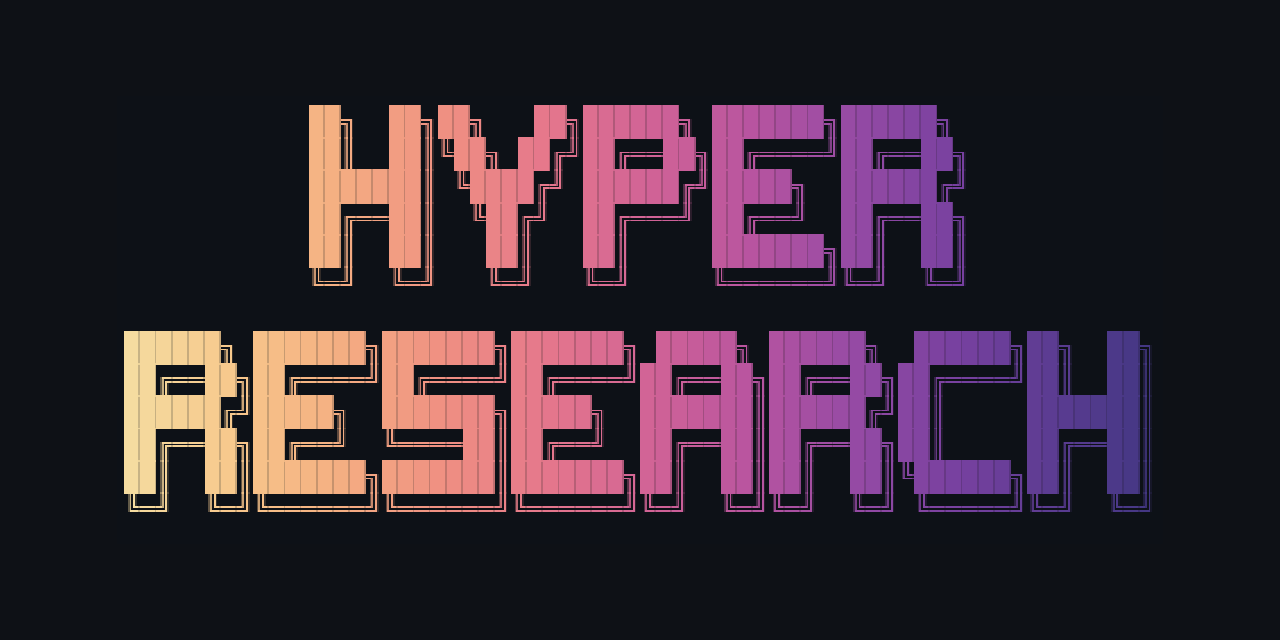
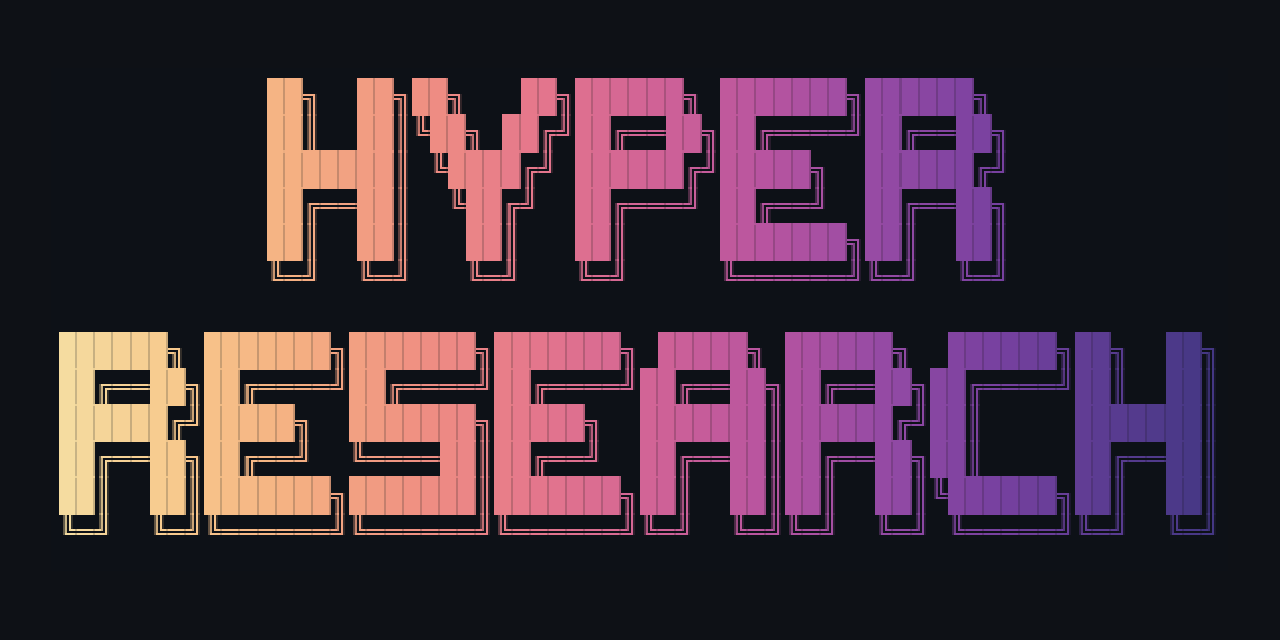
prelaunch polish: bigger social wordmark + Python 3.14 disclaimer (#13)
* fix: make wordmark dominate banner_social.png instead of floating in dark padding

The 1280x640 social card had the wordmark capped at 70% height and 85%
width, leaving roughly a third of the canvas as empty dark margin. When
platforms cropped to tighter aspect ratios for link previews, the
wordmark looked tiny. Push the fill to 92% width so the wordmark reads
clearly when shared.

* docs: add Python 3.11-3.13 disclaimer after install step

3.14 unsupported until upstream Crawl4AI relaxes its lxml~=5.3 pin
(unclecode/crawl4ai#1903). Without a callout, users on 3.14 hit a
cryptic lxml-from-source compile failure instead of a clear "use
3.13" message.

---------

Changed region(s): [[0.0312, 0.5, 0.9688, 0.8438], [0.1875, 0.125, 0.7812, 0.4688]]

diff --git a/assets/_generate_banner.py b/assets/_generate_banner.py
@@ -31,21 +31,25 @@ src = Image.open(SRC).convert("RGBA")
 # chunky letterforms instead of blurring them.
 upscaled = src.resize((src.width * 2, src.height * 2), Image.NEAREST)
 
-# Cap at ~70% of canvas height so the wordmark doesn't crowd the edges
-max_h = int(TARGET_H * 0.70)
+# Wordmark should DOMINATE the social card, not float in a sea of dark
+# padding. Fill ~92% of the canvas width — leaves a thin margin so the
+# letterforms breathe but the content reads clearly when platforms
+# crop to tighter aspect ratios than GitHub's native 2:1.
+max_w = int(TARGET_W * 0.92)
+if upscaled.width != max_w:
+    ratio = max_w / upscaled.width
+    upscaled = upscaled.resize(
+        (max_w, int(upscaled.height * ratio)),
+        Image.NEAREST,
+    )
+
+# Sanity cap at 88% of canvas height (mostly defensive — the source
+# wordmark's 2.34:1 aspect ratio means width usually constrains first).
+max_h = int(TARGET_H * 0.88)
 if upscaled.height > max_h:
     ratio = max_h / upscaled.height
     upscaled = upscaled.resize(
         (int(upscaled.width * ratio), max_h),
-        Image.NEAREST,
-    )
-
-# Cap at ~85% of canvas width
-max_w = int(TARGET_W * 0.85)
-if upscaled.width > max_w:
-    ratio = max_w / upscaled.width
-    upscaled = upscaled.resize(
-        (max_w, int(upscaled.height * ratio)),
         Image.NEAREST,
     )
 

diff --git a/README.md b/README.md
@@ -28,7 +28,9 @@ pip install hyperresearch
 hyperresearch install
 ```
 
-Then, in a fresh Claude Code session, type `/hyperresearch <anything>`. 
+Then, in a fresh Claude Code session, type `/hyperresearch <anything>`.
+
+> **Python 3.11–3.13 only.** 3.14 isn't supported yet — Crawl4AI pins `lxml~=5.3` and that line has no cp314 wheels. Tracking the upstream fix at [unclecode/crawl4ai#1903](https://github.com/unclecode/crawl4ai/issues/1903). Use `pyenv install 3.13`, `uv venv -p 3.13 .venv`, or `py -3.13 -m venv .venv` to create a compatible environment.
 
 ---
 
